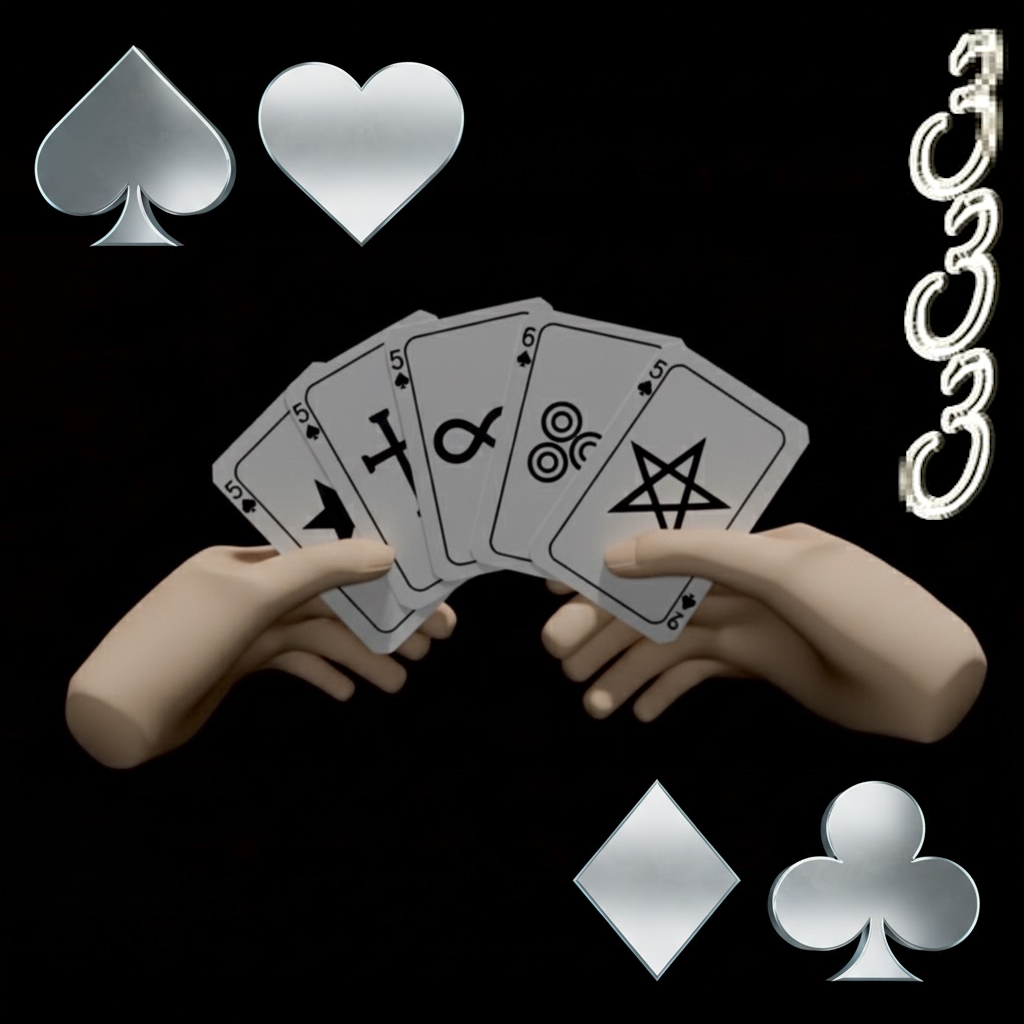
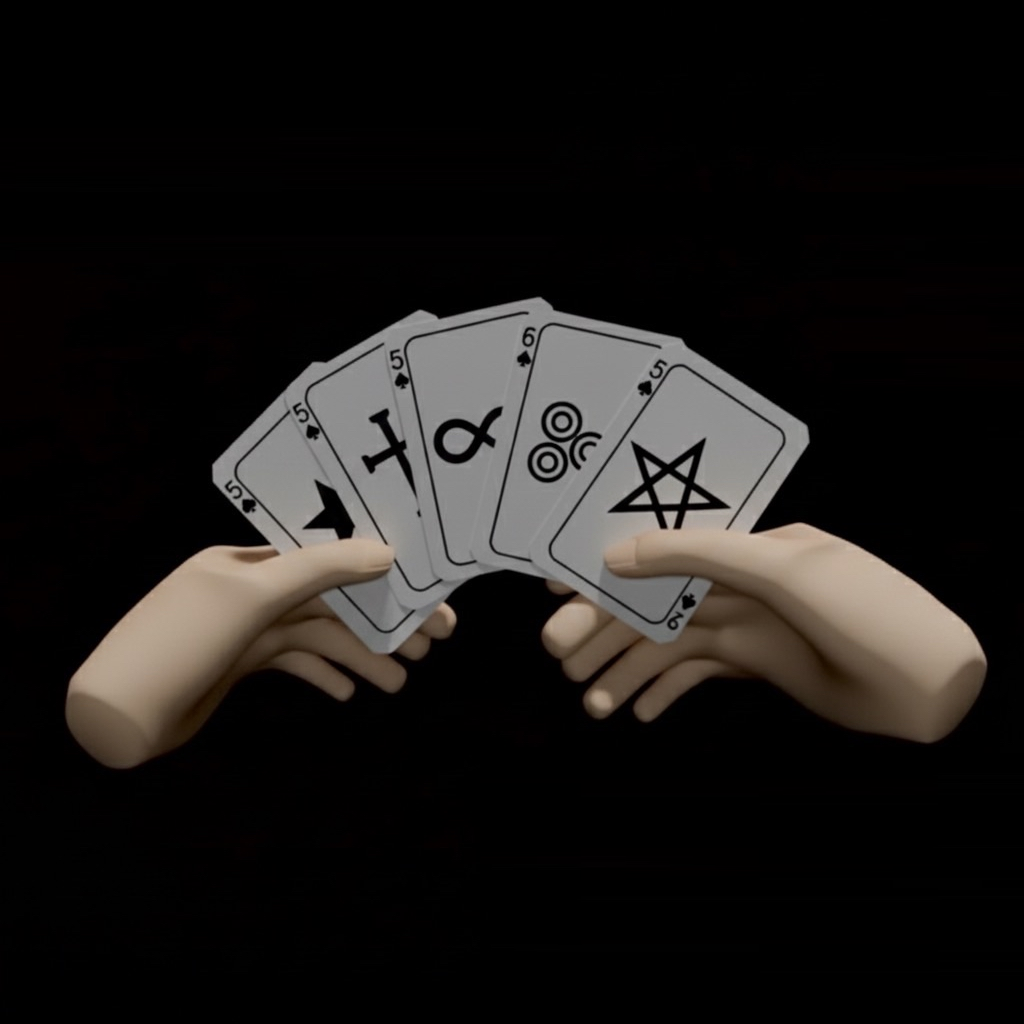
art gallery fix again +1

diff --git a/artGallery.html b/artGallery.html
@@ -45,14 +45,15 @@
 <img src="artGallery/mix3.png">
 <img src="artGallery/takyonn64.gif">
 <img src="artGallery/takyonncross.gif">
-<img src="artGallery/lsd.JPG">
+<img src="artGallery/lsd.jpg">
 <img src="artGallery/heraldicTorch_c.png">
 <img src="artGallery/frctalGuitar.gif">
 <img src="artGallery/chains.png">
 <img src="artGallery/btsh.png">
 <img src="artGallery/blackflag.png">
+<img src="artGallery/lotusBanner.png">
 <img src="artGallery/lotus.gif">
-<img src="artGallery/free%20dragon.JPG">
+<img src="artGallery/free%20dragon.jpg">
 <img src="artGallery/nexus.png">
 <img src="artGallery/awn.png">
 <img src="artGallery/chest.jpg">
@@ -62,7 +63,7 @@
 <img src="artGallery/stars.jpg">
 <img src="artGallery/xoraphylcrescent.png">
 <img src="artGallery/dna.png">
-<img src="artGallery/blades.PNG">
+<img src="artGallery/blades.png">
 <img src="artGallery/false%20thought%20dragon.png">
 <img src="artGallery/channelly.png">
 <img src="artGallery/valerie.png">
@@ -74,7 +75,6 @@
 <img src="artGallery/lotus-transformed.png">
 <img src="artGallery/techtriprip.png">
 <img src="artGallery/web%20flower.png">
-<img src="artGallery/dice.gif">
 <img src="artGallery/feminine%20LSD.png">
 <img src="artGallery/skeletons.png">
 <img src="artGallery/skeletons2.png">
@@ -82,7 +82,6 @@
 <img src="artGallery/apple%20pay.jpg">
 <img src="artGallery/marblemoney.png">
 <img src="artGallery/finaloutput3.gif">
-<img src="artGallery/modern%20art.png">
 <img src="artGallery/iphone%20prairie.png">
 <img src="artGallery/nike%20angel.png">
 <img src="artGallery/kali.png">